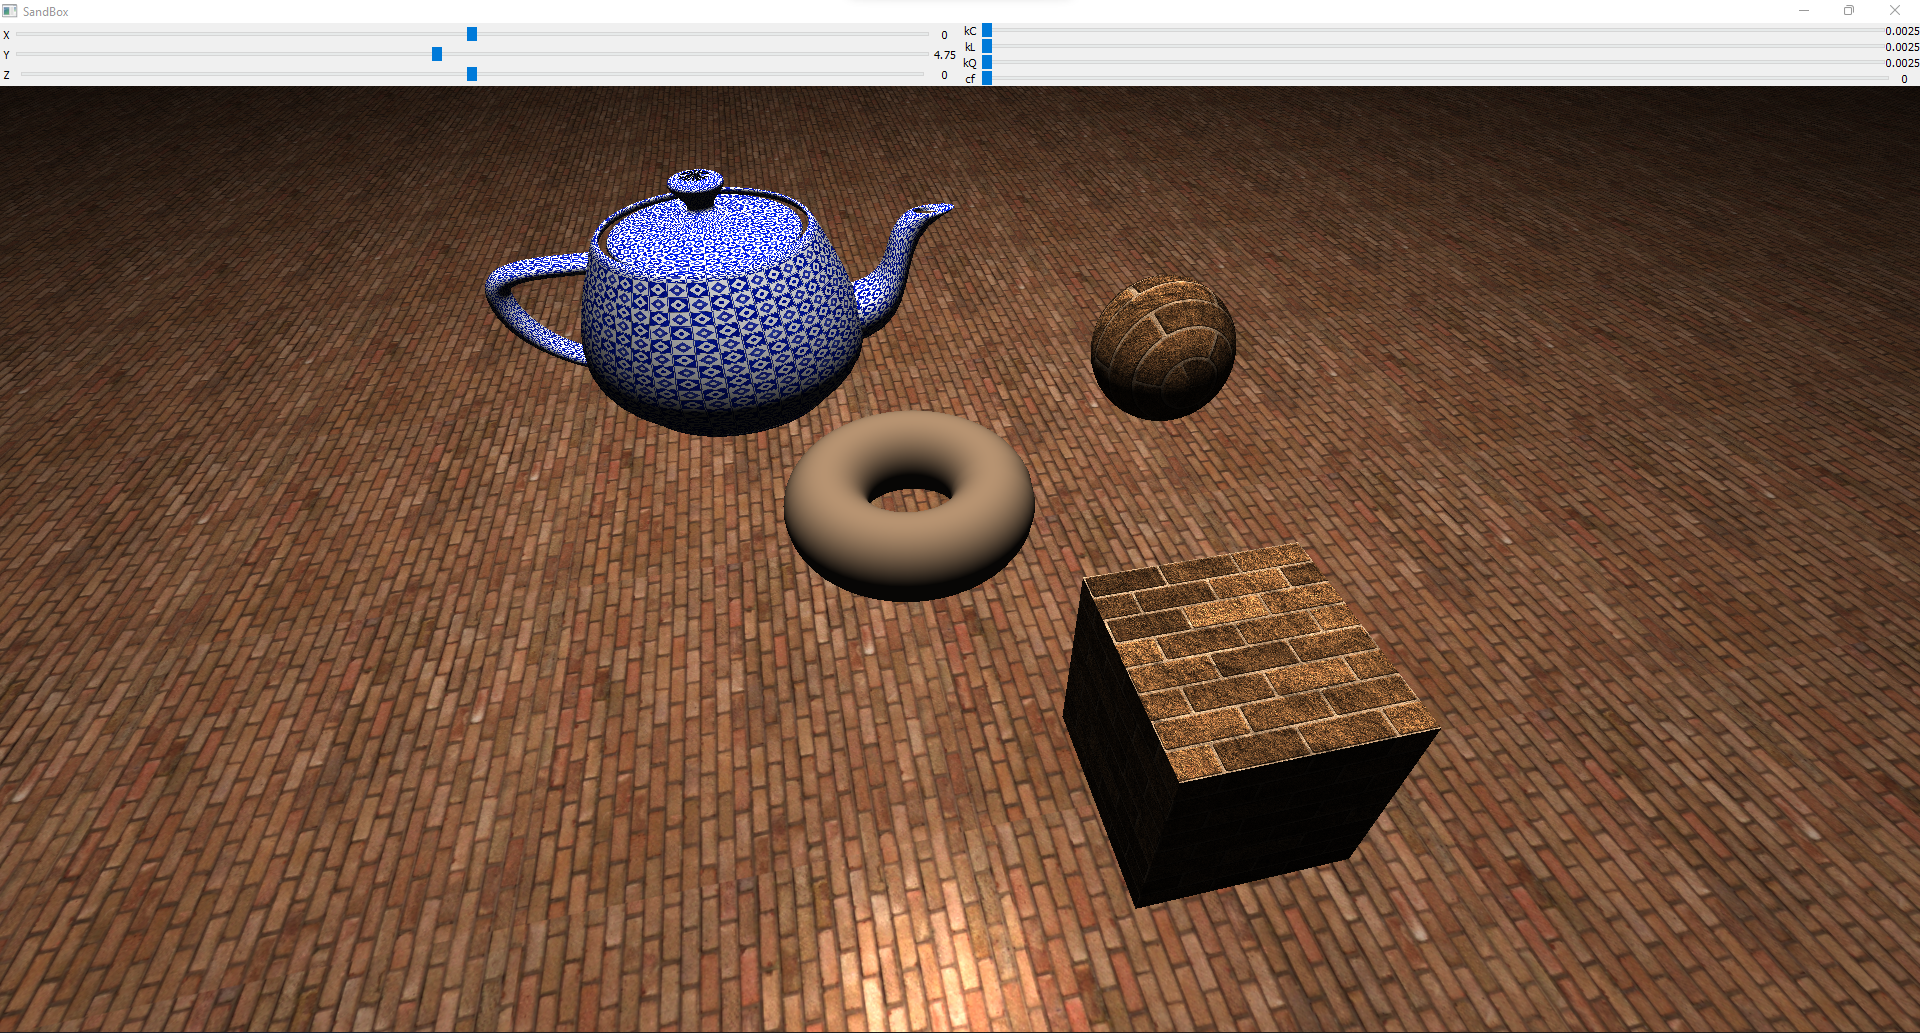
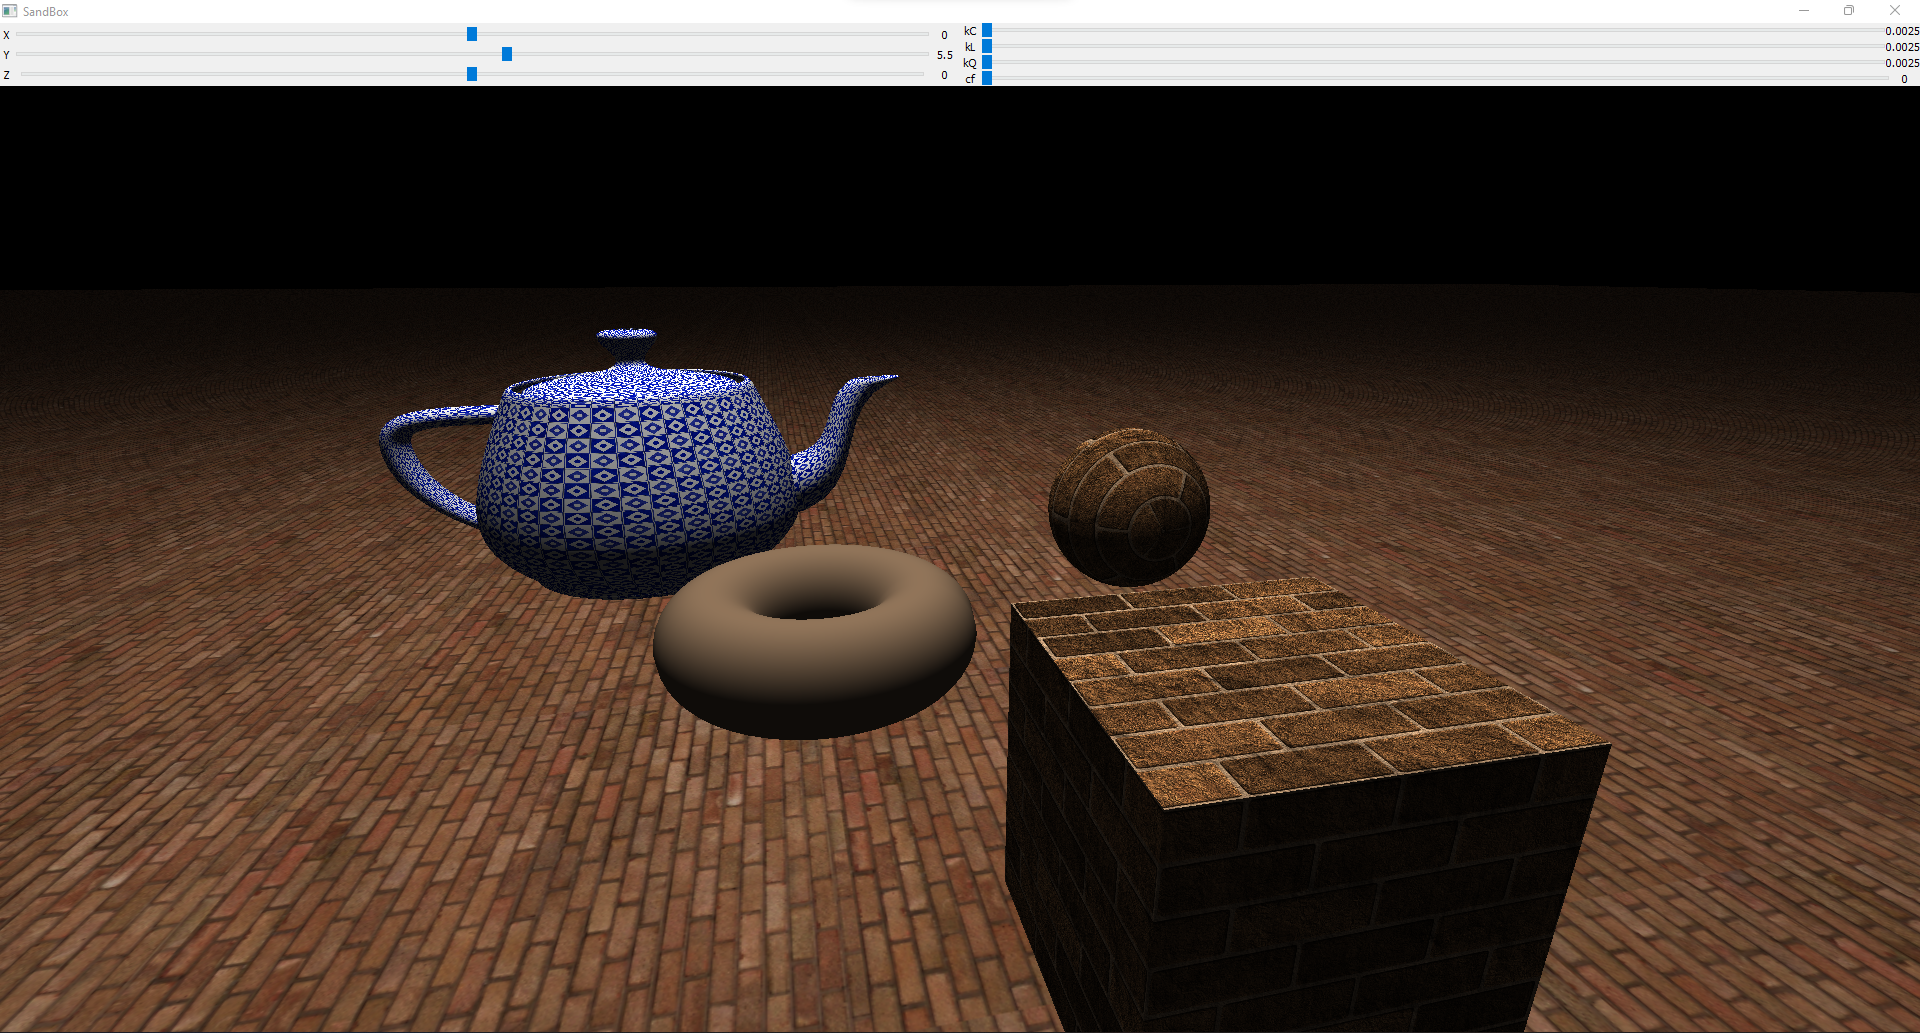
Scaling changes

diff --git a/source/Renderer.cpp b/source/Renderer.cpp
@@ -243,7 +243,7 @@ void Renderer::draw()
 	glm::vec3 eyePos = m_pCamera->getPosition();//eye position|world space
 
 	//Ambient-light
-	glm::vec4 ambientLight(0.05f, 0.05f, 0.05f, 1.0f);
+	glm::vec4 ambientLight(0.1f, 0.1f, 0.1f, 1.0f);
 
 	//Light-source
 	glm::vec3 lightPos(0.0f, 3.0f, 0.0f);
@@ -282,7 +282,7 @@ void Renderer::draw()
 	m_pShaderPT->activate();
 
 	//Shape-4|sphere|light source
-	shModelMtx = glm::translate(lightPos) * glm::scale(glm::vec3(0.25f, 0.25f, 0.25f));//model to world
+	shModelMtx = glm::translate(lightPos) * glm::scale(glm::vec3(0.0625f, 0.0625f, 0.0625f));//model to world
 	MVPMtx = VPMtx * shModelMtx;//model to projection
 
 	//Set Uniform
